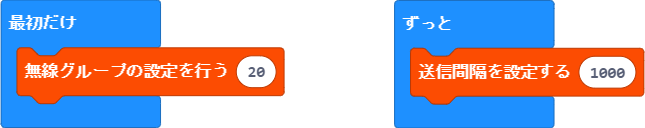
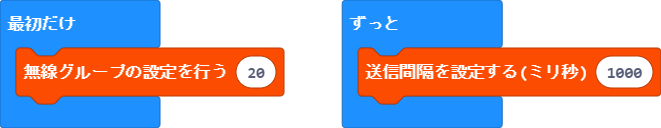
更新 main.blocks, custom.ts

diff --git a/custom.ts b/custom.ts
@@ -28,7 +28,7 @@ namespace Tello {
      * 送信間隔の設定を行う、「ずっと」で使う、100~10000の間で設定する、単位はミリ秒
      * @param 送信間隔の設定を行う value 100-10000, eg: 1000
      */
-    //% block="送信間隔を設定する %value"
+    //% block="送信間隔を設定する(ミリ秒) %value"
     //% group="設定"
     export function Setorder(value: number): void {
         if(command_enable == 0){
